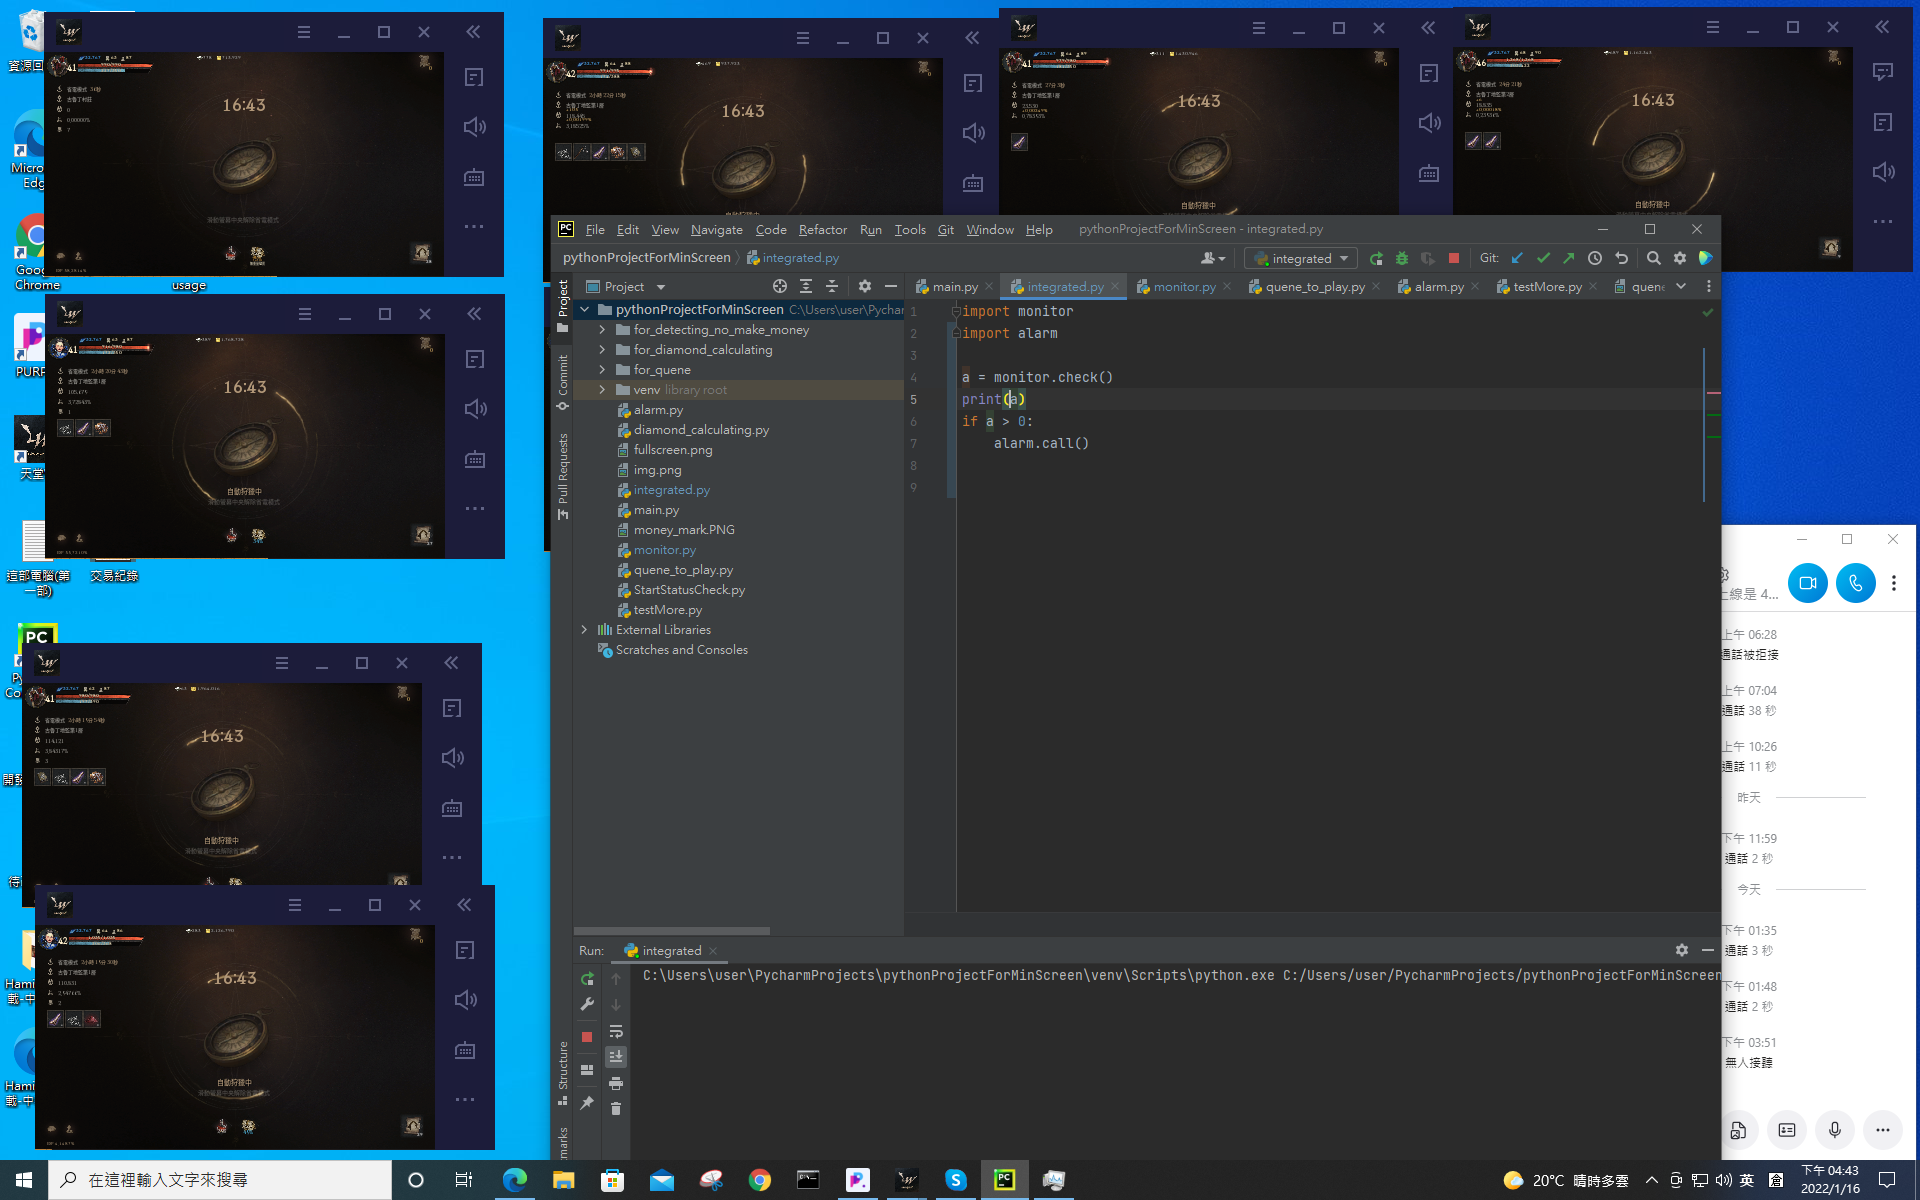
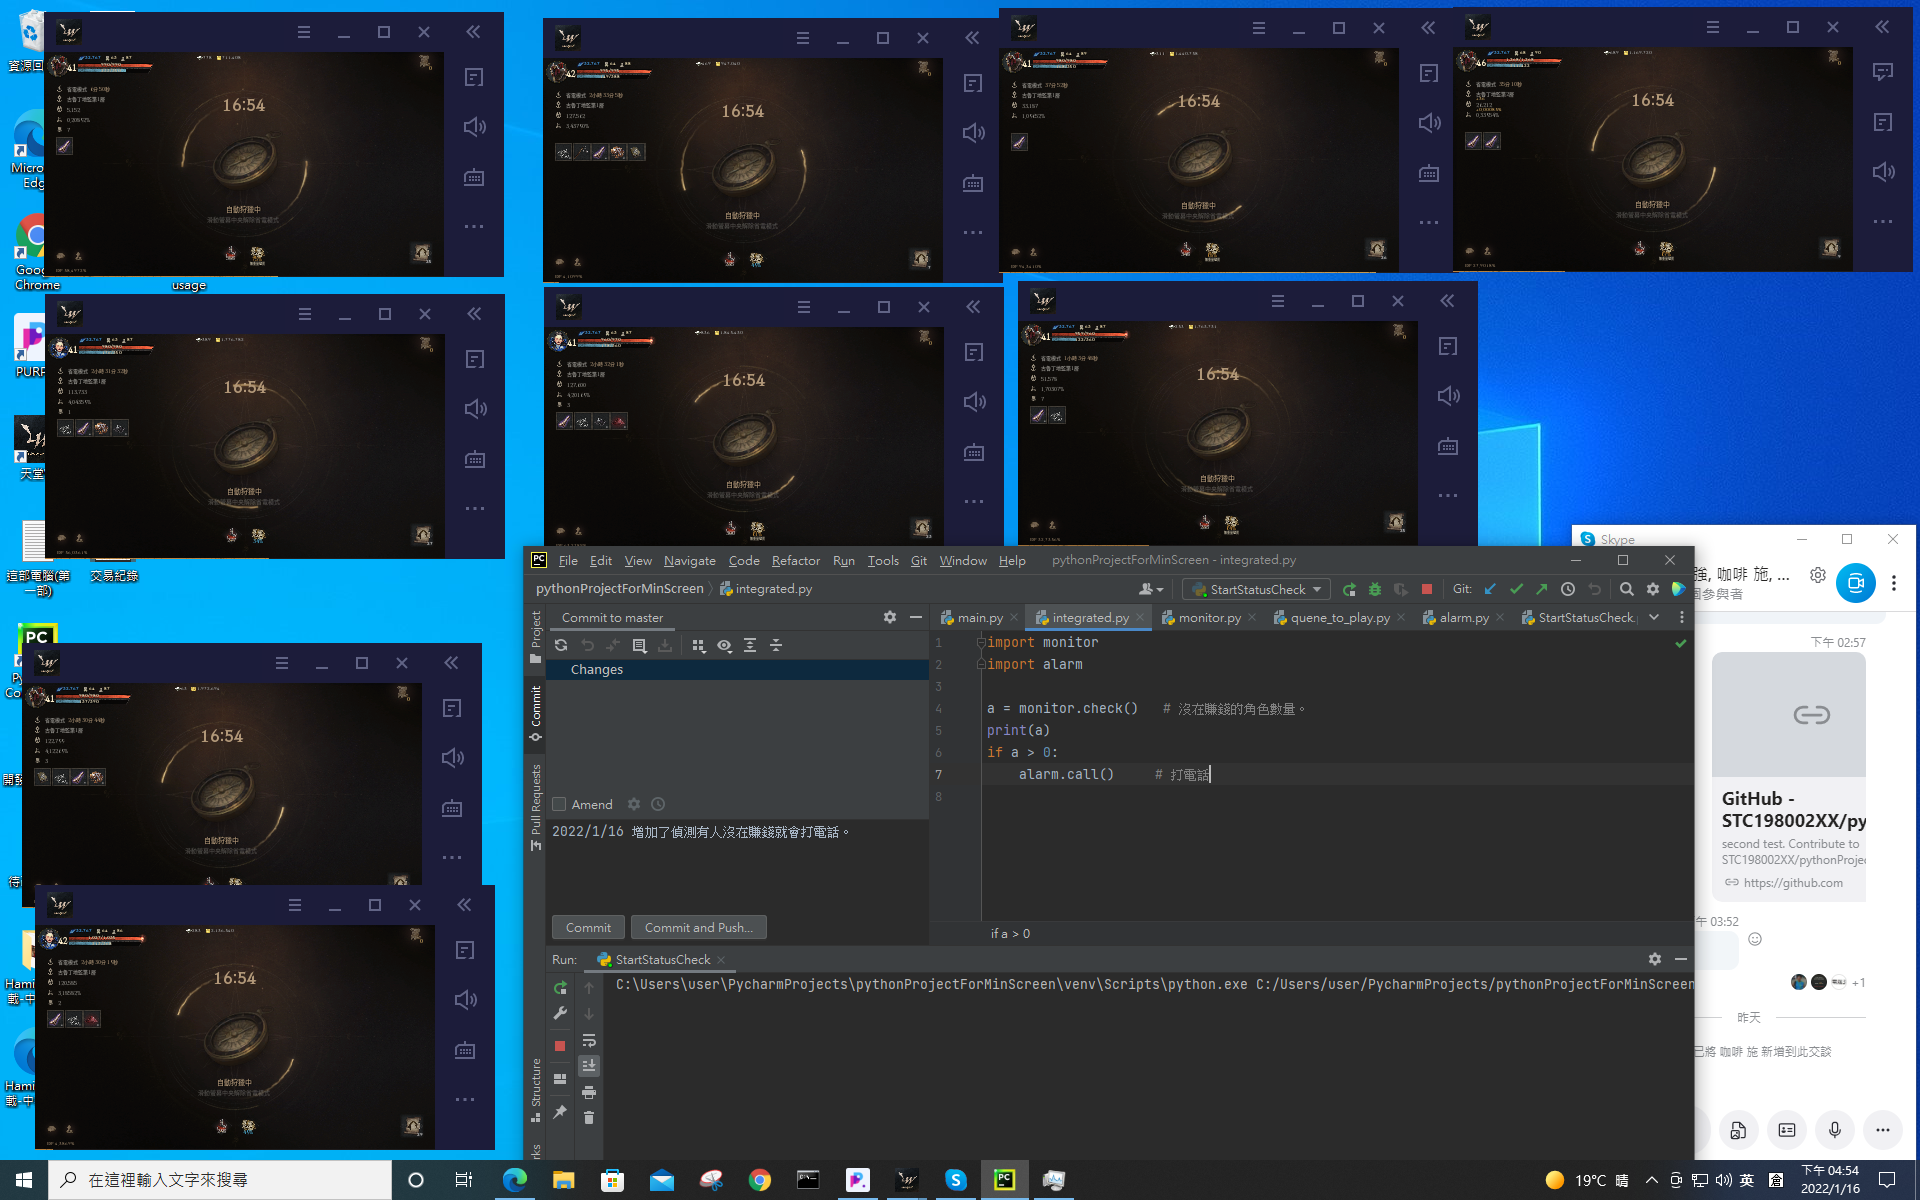
2022/1/16 增加了偵測有人沒在賺錢就會打電話的功能。

diff --git a/integrated.py b/integrated.py
@@ -1,7 +1,10 @@
 import monitor
 import alarm
+import time
 
-a = monitor.check()   # 沒在賺錢的角色數量。
-print(a)
-if a > 0:
-    alarm.call()     # 打電話
+while True:
+    a = monitor.check()   # 沒在賺錢的角色數量。
+    print(a)
+    if a > 0:
+        alarm.call()     # 打電話
+    time.sleep(1800)
